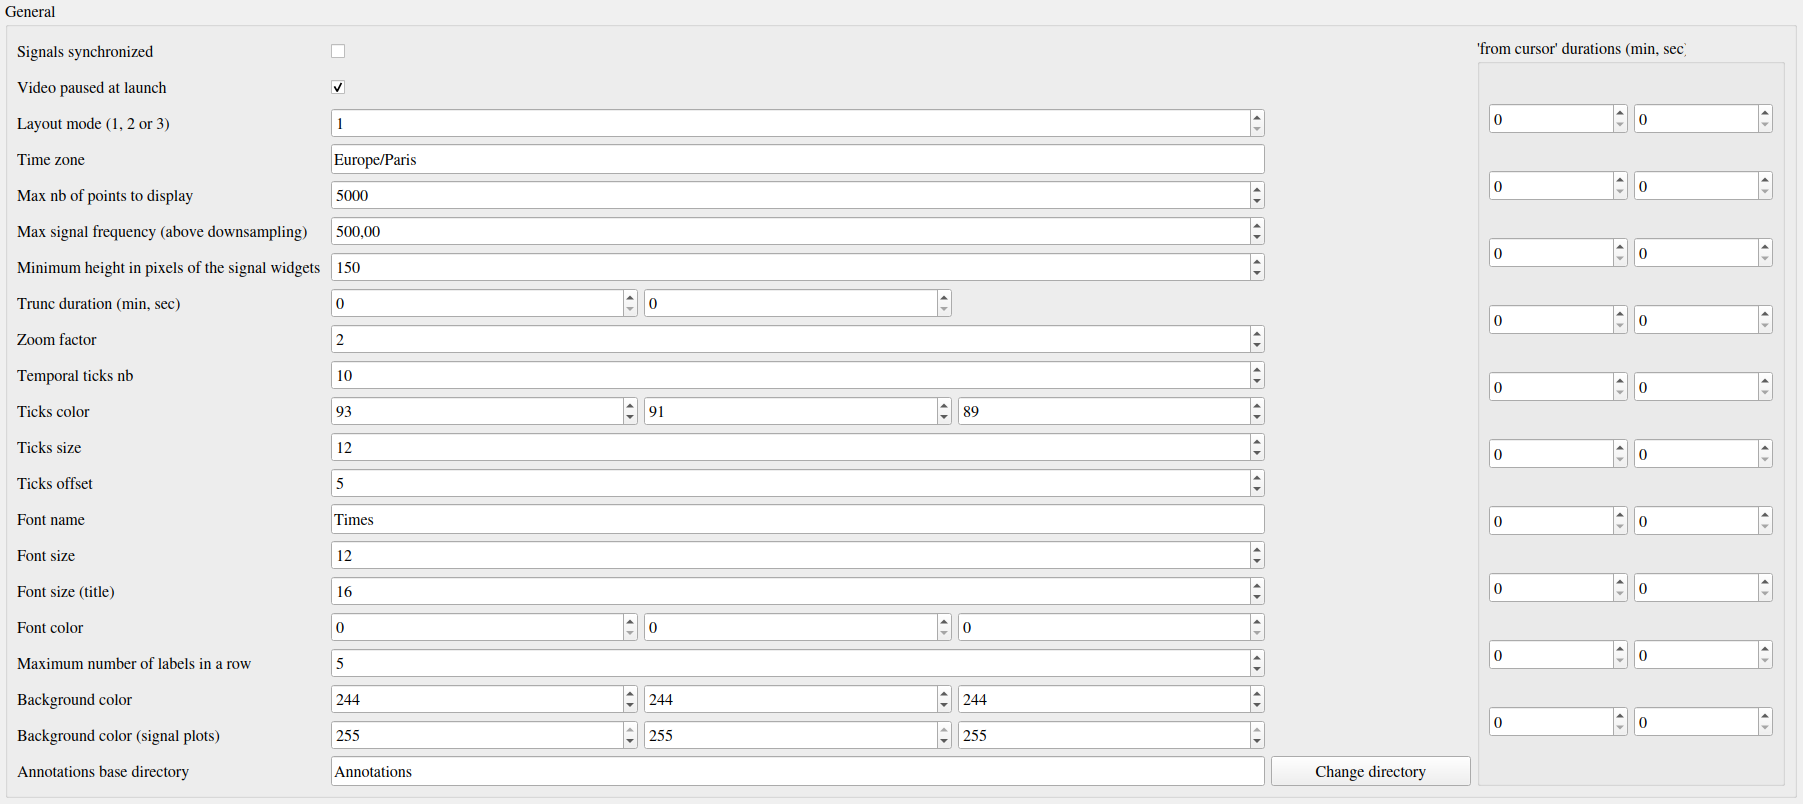
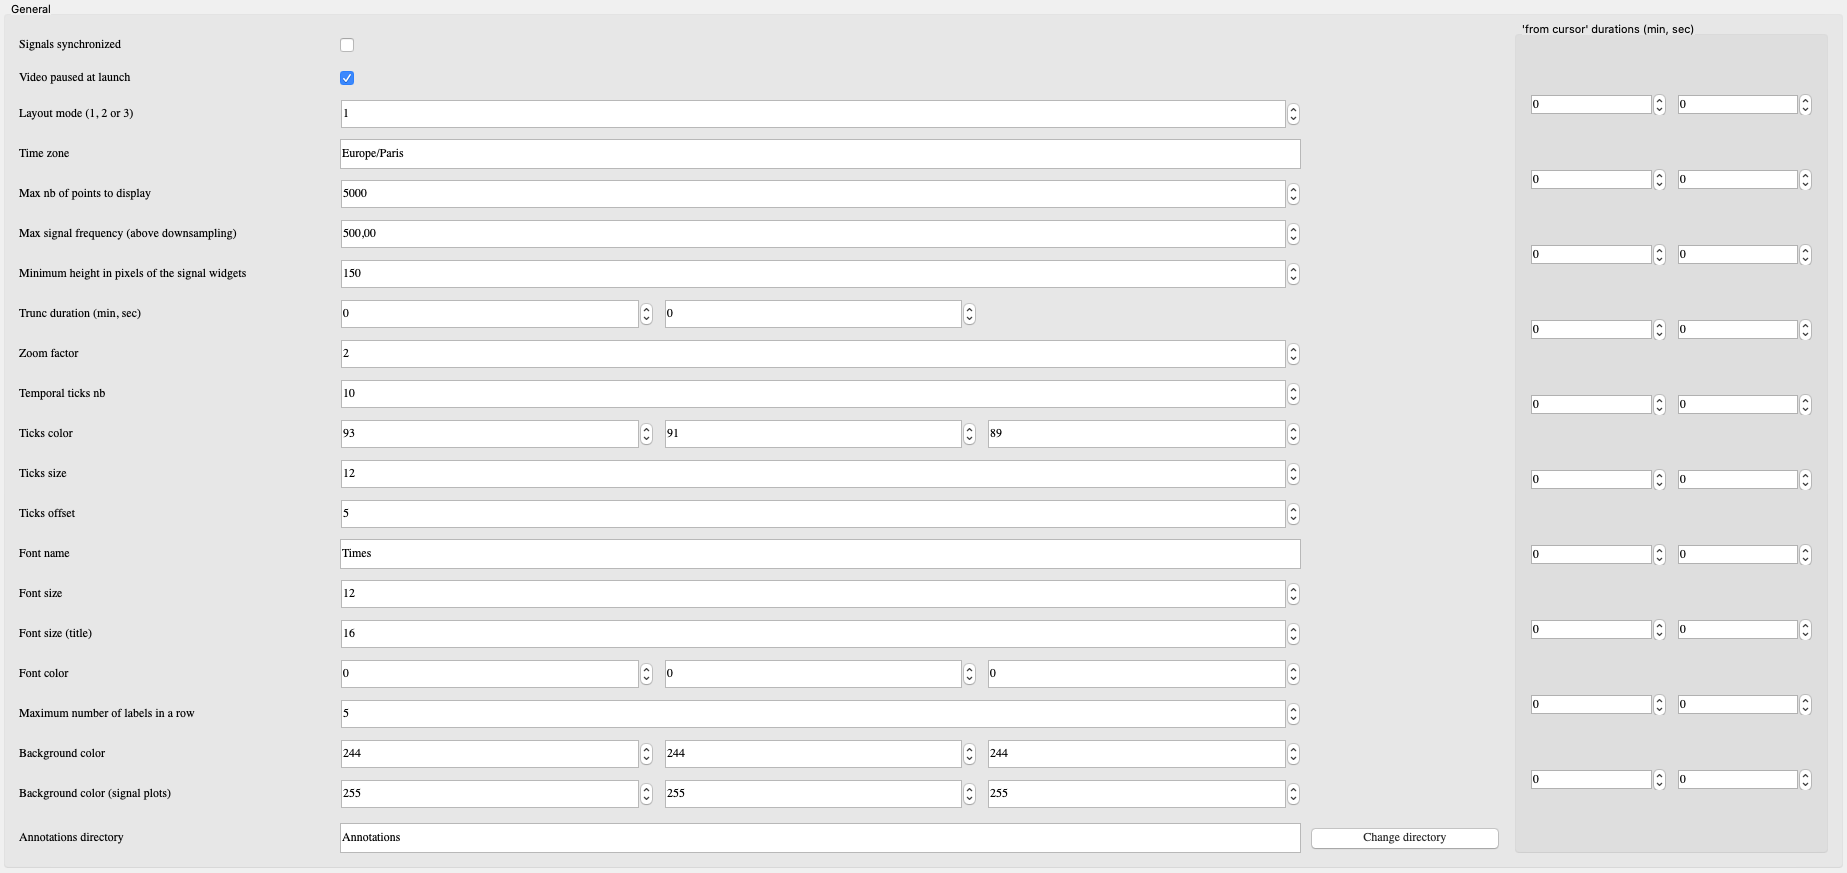
develop - update documentation of configuration user guide => removal of automatic creation of annotation sub-directory

diff --git a/doc/source/userguide-configuration.rst b/doc/source/userguide-configuration.rst
@@ -270,7 +270,7 @@ In a Python script, the general configuration is specified with the keyword argu
     font_size_title = 8
     nb_table_annot = 10
     time_zone = 'Europe/Paris'
-    annot_dir_base = 'Annotations'
+    annot_dir = 'Annotations'
     ticks_offset = 5
     font_name = 'Times'
     trunc_duration = [0, 0]
@@ -555,7 +555,7 @@ The "Background color" spin boxes specify the background color of ViSiAnnoT wind
 
 The "Background color (signal plot)" spin boxes specify the background color of ViSiAnnoT plots.
 
-The "Annotations base directory" line edit specifies the base directory where to save the annotations (both events and image extraction). A sub-directory is automatically created with the recording name (*i.e.* the name of the folder containing the video files). So the base directory can be the same for several recordings.
+The "Annotations directory" line edit specifies the directory where to save the annotations (both events and image extraction). **Make sure to change this directory when switching to another recording**.
 
 The "from cursor durations" spin boxes table specifies the list of temporal range durations for defining a new temporal range beginning at the current temporal cursor (see section :ref:`sec-fast-nav`).
 
